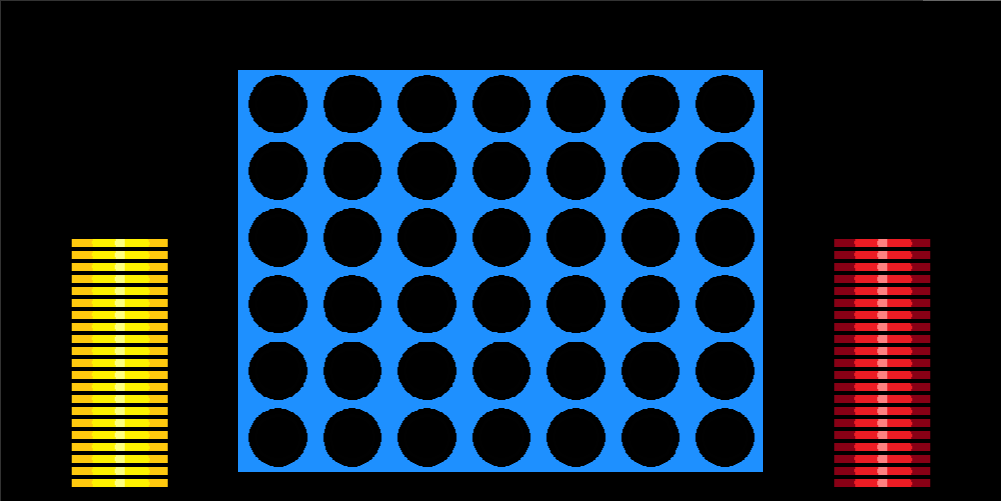
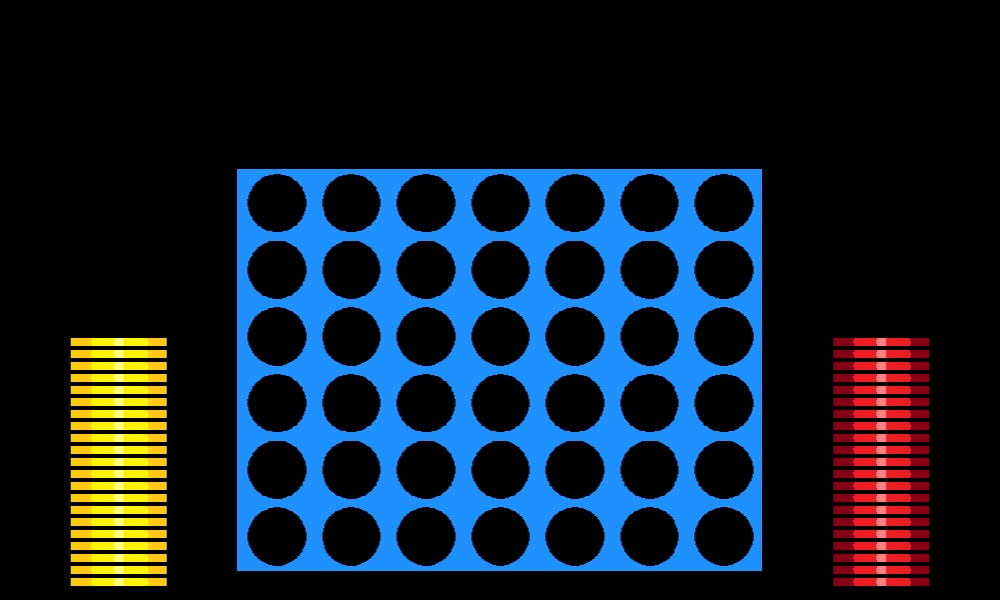
agregadas indicaciones, arreglado bug del drag and drop

Changed region(s): [[0.217, 0.1198, 0.775, 0.9581], [0.062, 0.479, 0.186, 0.988], [0.837, 0.479, 0.93, 0.988]]

diff --git a/TP2/js/connect4.js b/TP2/js/connect4.js
@@ -278,7 +278,9 @@ class Game {
       context.drawImage(img, currentX - RADIUS, currentY - RADIUS, CHIP_SIZE, CHIP_SIZE);
     }
     else {
-      canvas.style.cursor = 'url("images/blocked.png") 0 0,default';
+      this.mouse.setClick(false);
+      context.clearRect((lastX - RADIUS - 5), (lastY - RADIUS - 5), CHIP_SIZE + 20, CHIP_SIZE + 20);
+      canvas.style.cursor = "url('images/blocked.png')";
     }
 
     this.mouse.update();
@@ -495,7 +497,7 @@ function loadGame() {
   winner1.classList.add("hidden");
   winner2.classList.add("hidden");
   boardX = (canvas.width / 2) - (boardWidth / 2);
-  boardY = (canvas.height / 2) - (boardHeight / 2) + 20;
+  boardY = (canvas.height / 2) - (boardHeight / 2) + 70;
   tileWidth = Math.round(boardWidth / 7);
   tileHeight = boardHeight / 6;
   chipYellowX = (boardX/2) - (CHIP_SIDE_WIDTH/2);

diff --git a/TP2/css/cover.css b/TP2/css/cover.css
@@ -101,21 +101,21 @@ body {
   padding: 0;
 }
 #canvas {
-  background-image: url("../images/back.png");
+  background-image: url("../images/back2.png");
 }
 #winner1{
   width: 146px;
   height: 175px;
   position: absolute;
   left: 230px;
-  top: 90px;
+  top: 220px;
 }
 #winner2{
   width: 146px;
   height: 175px;
   position: absolute;
   left: 990px;
-  top: 90px;
+  top: 220px;
 }
 .hidden{
   visibility: hidden;

diff --git a/TP2/index.html b/TP2/index.html
@@ -22,7 +22,7 @@
       </header>
 
       <main role="main border" class="inner cover" id="main">
-        <canvas class="canvas" width="1000" height="500" id="canvas"></canvas>
+        <canvas class="canvas" width="1000" height="600" id="canvas"></canvas>
         <div class="winner hidden" id="winner1">
           <img src="images/winner.gif" alt="you win yellow!">
         </div>
